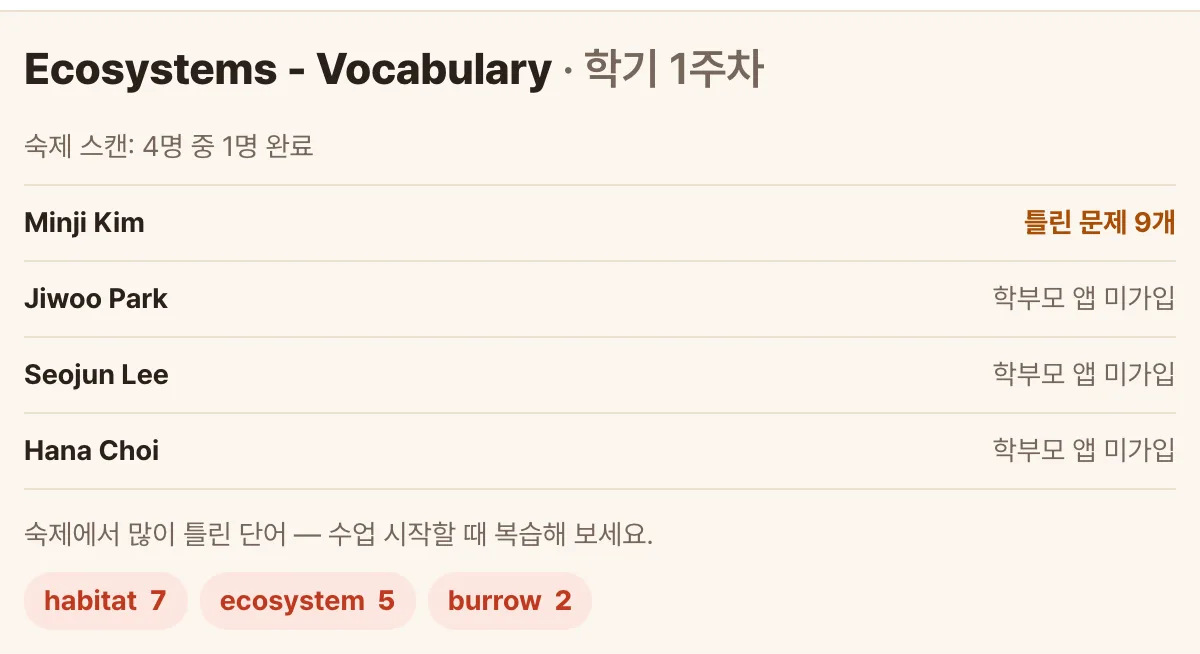
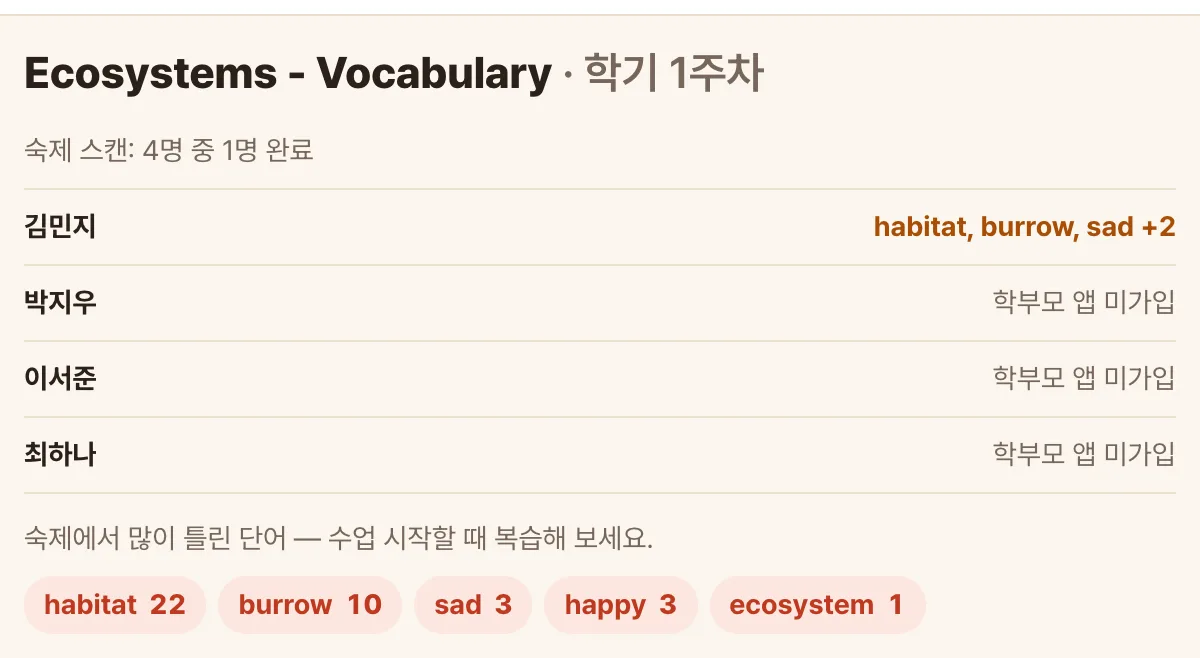
feat(schools): show real screens up front, start every question closed
The three real screenshots lived inside question answers, so a visitor
only saw them by opening the right question. They now sit in their own
section above the questions, in workflow order (foreign teacher, Korean
teacher, parent), and every question starts closed so the visitor picks
what to read. #q links still open their question.

Also retakes the Korean homework-card screenshot, which still showed
English student names.

diff --git a/src/pages/SchoolsLandingPage.tsx b/src/pages/SchoolsLandingPage.tsx
@@ -155,7 +155,7 @@ const SchoolsLandingPage: React.FC = () => {
     io.observe(close);
     return () => io.disconnect();
   }, []);
-  const [openQs, setOpenQs] = useState<boolean[]>(() => [true, false, false, false, false, false]);
+  const [openQs, setOpenQs] = useState<boolean[]>(() => [false, false, false, false, false, false]);
   const setQ = (i: number, v: boolean) => setOpenQs((prev) => (prev[i] === v ? prev : prev.map((o, j) => (j === i ? v : o))));
   // Links to a question (header "Pricing", #q5 URLs) open it, then scroll to it.
   const openQ = (i: number) => (e?: React.MouseEvent) => {
@@ -433,6 +433,40 @@ const SchoolsLandingPage: React.FC = () => {
         </div>
       </section>
 
+      {/* REAL SCREENS: shown up front, so nobody has to open a question to see the product */}
+      <section className="mx-auto max-w-6xl px-4 pt-10 md:pt-14">
+        <h2 className="text-[22px] font-extrabold leading-snug tracking-[-0.02em] text-ink sm:text-[26px]">
+          {isKo ? '수업 기록부터 학부모 리포트까지' : 'From class log to parent report'}
+        </h2>
+        <div className="mt-6 grid items-start gap-6 lg:grid-cols-3">
+            <RealShot
+              isKo={isKo}
+              name="q3"
+              w={600}
+              h={327}
+              alt={isKo ? '원어민 선생님 화면: 이번 주 숙제 스캔 수와 이번 주 단어' : "Foreign teacher's screen: homework scanned this week and this week's words"}
+              caption={isKo ? '원어민 선생님 화면. 숙제가 들어오면 많이 틀린 단어가 여기 떠요.' : "Foreign teacher's screen. Most-missed words show here as homework comes in."}
+            />
+            <RealShot
+              isKo={isKo}
+              name="q1"
+              w={592}
+              h={825}
+              phone={{ w: 390, h: 844 }}
+              alt={isKo ? '한국인 선생님 화면: 원어민 선생님 기록으로 만든 한국어 수업 요약과 승인하고 보내기 버튼' : "Korean teacher's screen: the Korean class summary drafted from the foreign teacher's note, with an approve-and-send button"}
+              caption={isKo ? '한국인 선생님이 확인하고 보내는 화면' : 'The Korean teacher checks and sends it here'}
+            />
+            <RealShot
+              isKo={isKo}
+              name="q4"
+              w={392}
+              h={429}
+              alt={isKo ? '학부모 앱: 한국인 선생님이 확인하고 보낸 수업 리포트와 아이에 대한 메모' : 'Parent app: the class report a Korean teacher checked and sent, with a note about the child'}
+              caption={isKo ? '학부모 앱 · 무료' : 'Parent app · free for parents'}
+            />
+        </div>
+      </section>
+
       {/* QUESTIONS */}
       <div className="mx-auto max-w-6xl px-4 py-8 md:py-12">
         <h2 className="text-[22px] font-extrabold leading-snug tracking-[-0.02em] text-ink sm:text-[26px]">
@@ -443,7 +477,7 @@ const SchoolsLandingPage: React.FC = () => {
         <div className="mt-6 divide-y divide-rule border-y border-rule">
           {/* Q1: FT log, AI draft, KT sends */}
           <QFold i={0} title={questions[0]} open={openQs[0]} onToggle={(v) => setQ(0, v)}>
-            <div className="grid gap-8 lg:grid-cols-2 lg:gap-12">
+            <div className="max-w-3xl">
               <div>
                 <p className="text-[17px] font-semibold leading-relaxed text-ink">{answer(0)}</p>
                 <Points
@@ -454,16 +488,6 @@ const SchoolsLandingPage: React.FC = () => {
                   }
                 />
               </div>
-
-              <RealShot
-                isKo={isKo}
-                name="q1"
-                w={592}
-                h={825}
-                phone={{ w: 390, h: 844 }}
-                alt={isKo ? '한국인 선생님 화면: 원어민 선생님 기록으로 만든 한국어 수업 요약과 승인하고 보내기 버튼' : "Korean teacher's screen: the Korean class summary drafted from the foreign teacher's note, with an approve-and-send button"}
-                caption={isKo ? '한국인 선생님이 확인하고 보내는 화면' : 'The Korean teacher checks and sends it here'}
-              />
             </div>
           </QFold>
 
@@ -527,7 +551,7 @@ const SchoolsLandingPage: React.FC = () => {
 
           {/* Q3: home homework reaches the teacher */}
           <QFold i={2} title={questions[2]} open={openQs[2]} onToggle={(v) => setQ(2, v)}>
-            <div className="grid gap-8 lg:grid-cols-2 lg:gap-12">
+            <div className="max-w-3xl">
               <div>
                 <p className="text-[17px] font-semibold leading-relaxed text-ink">{answer(2)}</p>
                 <Points
@@ -538,21 +562,12 @@ const SchoolsLandingPage: React.FC = () => {
                   }
                 />
               </div>
-
-              <RealShot
-                isKo={isKo}
-                name="q3"
-                w={600}
-                h={327}
-                alt={isKo ? '원어민 선생님 화면: 이번 주 숙제 스캔 수와 이번 주 단어' : "Foreign teacher's screen: homework scanned this week and this week's words"}
-                caption={isKo ? '원어민 선생님 화면. 숙제가 들어오면 많이 틀린 단어가 여기 떠요.' : "Foreign teacher's screen. Most-missed words show here as homework comes in."}
-              />
             </div>
           </QFold>
 
           {/* Q4: what the parent sees, and what it costs them */}
           <QFold i={3} title={questions[3]} open={openQs[3]} onToggle={(v) => setQ(3, v)}>
-            <div className="grid gap-8 lg:grid-cols-2 lg:gap-12">
+            <div className="max-w-3xl">
               <div>
                 <p className="text-[17px] font-semibold leading-relaxed text-ink">{answer(3)}</p>
                 <a href={langPath('/')} className="mt-3 inline-flex min-h-11 items-center gap-1.5 text-[15px] font-bold text-line-ink">
@@ -560,15 +575,6 @@ const SchoolsLandingPage: React.FC = () => {
                   <ArrowRight size={16} weight="bold" />
                 </a>
               </div>
-
-              <RealShot
-                isKo={isKo}
-                name="q4"
-                w={392}
-                h={429}
-                alt={isKo ? '학부모 앱: 한국인 선생님이 확인하고 보낸 수업 리포트와 아이에 대한 메모' : 'Parent app: the class report a Korean teacher checked and sent, with a note about the child'}
-                caption={isKo ? '학부모 앱 · 무료' : 'Parent app · free for parents'}
-              />
             </div>
           </QFold>
 
